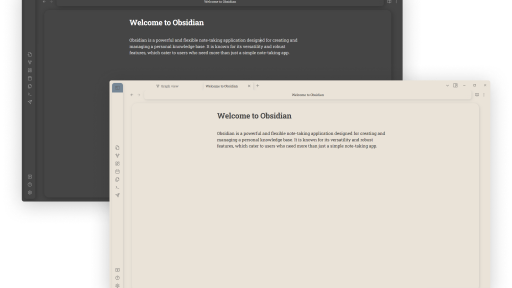
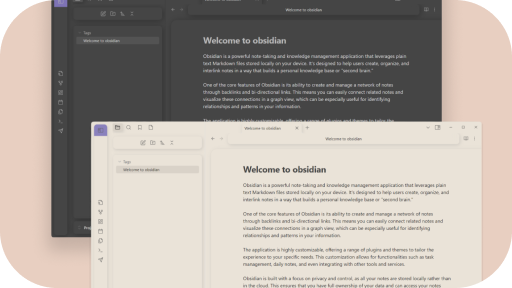
Update

diff --git a/theme.css b/theme.css
@@ -54,10 +54,11 @@
 
 .theme-light .workspace-split.mod-root .view-content,
 .theme-dark .workspace-split.mod-root .view-content {
-    margin: 15px 26px;
-    min-width: 1400px;
+    margin: 15px 20px;
+    max-width: 1400px;
     background-color: var(--background-primary);
     border-radius: 20px;
+    z-index: 2;
     box-shadow: var(--shadow);
 }
 
@@ -65,7 +66,6 @@
 .graph-controls {
     right: 35px;
     top: 30px;
-    
 }
 
 .theme-light .view-header-title-container,
@@ -113,7 +113,6 @@
 }
 
 
-
 .theme-light .nav-files-container,
 .theme-dark .nav-files-container {
     margin: 10px;
@@ -130,11 +129,15 @@ body.is-focused .workspace-ribbon.mod-left {
 
 
 body:not(.is-mobile) .workspace-split.mod-left-split .workspace-sidedock-vault-profile{
+    position: relative;
     background-color: var(--background-primary);
     box-shadow: var(--shadow);
     margin-bottom: 14px;
-    border-radius: 50px;
-    max-width: 300px;
+    border-radius: 10px;
+    border: none;
+    z-index: 1;
+    left: 10px;
+    max-width: 290px;
 }
 
 
@@ -164,5 +167,4 @@ select,
 button.mod-warning {
     background-color: rgb(183, 93, 93);
 }
-
 
